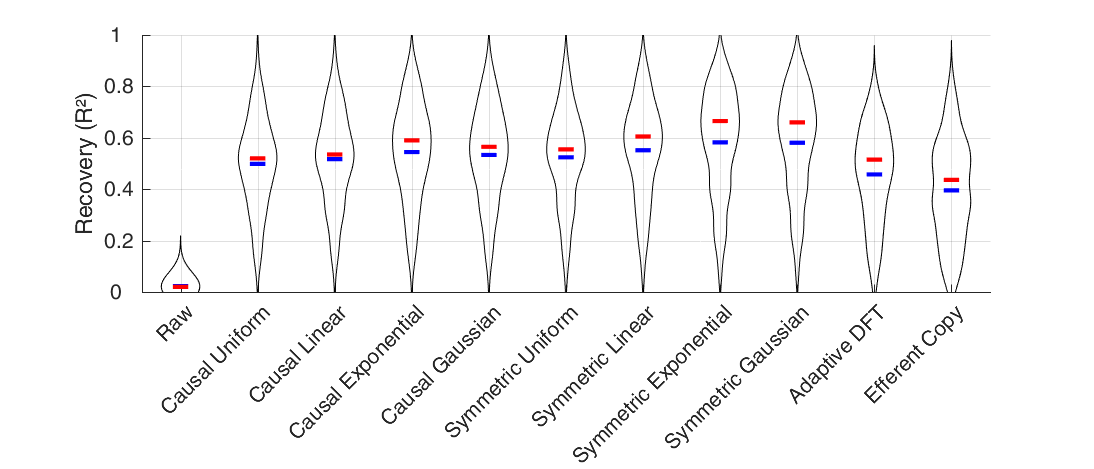
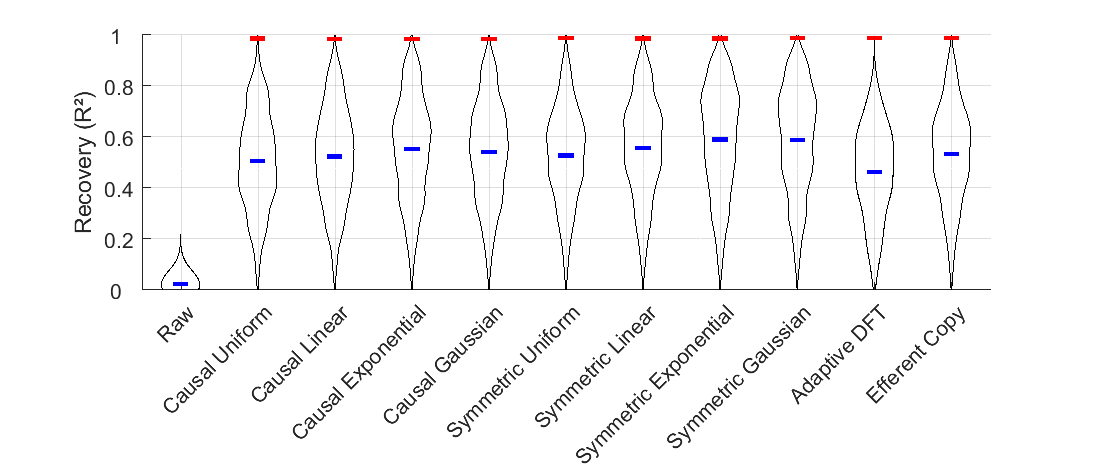
Evaluate ECG Recovery

diff --git a/docs/sep_analysis.m b/docs/sep_analysis.m
@@ -12,6 +12,8 @@ load([datafolder,'SEP.mat'],'trials')
 tru = trials;
 load([datafolder,'SEP_10Hz.mat'],'trials')
 trl = trials;
+toi             = 2481:2530;
+%toi             = 2491:2520;
 toi             = 2451:2550;
 %
 close all
@@ -24,9 +26,9 @@ plot(mean(tru(:,toi),1))
 %
 filt_axis       = {'Causal Uniform','Causal Linear','Causal Exponential','Causal Gaussian','Symmetric Uniform','Symmetric Linear','Symmetric Exponential','Symmetric Gaussian','Adaptive DFT','Efferent Copy'};
 filt_type       = {'ave','linear','exp','gauss','ave','linear','exp','gauss'};
-%sym_type        = {'causal','causal','causal','causal','symmetric','symmetric','symmetric','symmetric'};
-%NumberPeriods   = 4;
-sym_type        = {'flipped','flipped','flipped','flipped','symflipped','symflipped','symflipped','symflipped'};
+sym_type        = {'causal','causal','causal','causal','symmetric','symmetric','symmetric','symmetric'};
+
+%sym_type        = {'flipped','flipped','flipped','flipped','symflipped','symflipped','symflipped','symflipped'};
 NumberPeriods   = 4;
 tacsFreq        = 10;
 Fs              = 5000;
@@ -48,10 +50,16 @@ for trl_idx = 1 : size(trl,1)
         F(fidx,trl_idx,:)   = f;
     end
     f                   = artacs.dft.local(r,tacsFreq,Fs,NumberPeriods);            
-    recover             = corr(f(toi)',e(1,toi)');    % true signal -> erp
-    
+    recover             = corr(f(toi)',e(1,toi)');    % true signal -> erp    
     R(fidx+1,trl_idx)   = recover;
     F(fidx+1,trl_idx,:) = f;
+    
+    kernel              = artacs.kernel.autocorr(r,NumberPeriods,tacsFreq,Fs);
+    f                   = artacs.kernel.runpredefined(r,kernel);
+    recover             = corr(f(toi)',e(1,toi)');    % true signal -> erp
+    R(fidx+2,trl_idx)   = recover;
+    F(fidx+2,trl_idx,:) = f;
+    
 end    
     
 koi = 0:0.01:1;
@@ -69,9 +77,10 @@ set(gcf,'Position',[500 100 700 300],'paperpositionmode','auto')
 for fidx = 1 : size(R,1)
     line(fidx+(.25*-KxR(fidx,:)),koi,'color','k');
     line(fidx+(.25*+KxR(fidx,:)),koi,'color','k');
-    m = mean(R(fidx,:).^2); 
+    m = nanmean(R(fidx,:).^2); 
     line([fidx-.1,fidx+.1],[m,m],'color','b','linewidth',2)         
-    m = mean(koi(KxR(fidx,:)>0.95));         
+ %  m = mean(koi(KxR(fidx,:)>0.95));      
+    m  = corr(nanmean(tru(:,toi))',squeeze(nanmean(F(fidx,:,toi),2))).^2;
     line([fidx-.1,fidx+.1],[m,m],'color','r','linewidth',2)
 end
 set(gca,'ylim',[0 1],'ytick',[0:0.2:1],'yticklabel',[0:.2:1])
@@ -84,7 +93,7 @@ figure
 hold on
 %plot(mean(trl(:,toi),1))
 plot(mean(tru(:,toi),1))
-plot(squeeze(mean(F(:,:,toi),2))')
+plot(squeeze(mean(F(end,:,toi),2))')
 
 %
 %%

diff --git a/src/+artacs/+kernel/autocorr.m b/src/+artacs/+kernel/autocorr.m
@@ -4,7 +4,13 @@ function Kernel = autocorr(sig,NumberPeriods,freq,Fs)
 period  = Fs/freq;
 pincl   = floor(length(sig)./period);
 sig     = sig(1:pincl*period);
-k       = xcorr(mean(reshape(sig,period,[]),1),'coeff');
+
+xc  = [];
+for phase_idx = 1 : period-1
+    xc = cat(1,xc,xcorr(sig(phase_idx:period:end),'coeff'));
+end
+k       = (mean(xc.^2));
+
 
 idx     = (length(k)+1)/2;
 k       = k(idx-ceil(NumberPeriods/2):idx-1);

diff --git a/readme.md b/readme.md
@@ -5,7 +5,12 @@ Includes also code for _adaptive DFT_ and for simulation of event-related potent
 #### Use Case
 |<img src="docs\img\eva\three_approaches_raw.png" width = "300">|<img src="docs\img\eva\three_approaches.png" width = "900">|
 |:----:|:----:|
-| _Exemplary generic signal_| _Exemplary filtering of a generic signal_|
+| _Exemplary simulated signal_| _Exemplary filtering of a simulated signal_|
+
+
+|<img src="docs\img\eva\ecg_raw.png" width = "300">|<img src="docs\img\eva\ecg_filtered.png" width = "900">|
+|:----:|:----:|
+| _Real ECG recording_| _Recovered ECG_|
 
 #### Comb Filter
 Filters the signal. Artifact can be _non-stationary_ and  _non-sinusoidal_, but is required to be _periodic_. Comb filters natively supports frequencies which are integer divisibles of the sampling frequency. Filter other frequenices with artacs.kernel.run, which automatically  resamples the signal before and after filtering.
@@ -45,8 +50,8 @@ filtered_signal = artacs.dft.local(signal,freq,Fs,NumberPeriods)
 filtered_signal = artacs.dft.complete(signal,freq,Fs)
 ```
 #### Performance
-<img src="docs\img\eva\recovery_erp.png" width = "1000">
-
+<img src="docs\img\eva\recovery_ecg.png" width = "1000">
+Recovery (R²) of an ECG for different filtering approaches
 ###### More information:
 [On creating simulated signals](generate.md)
 
